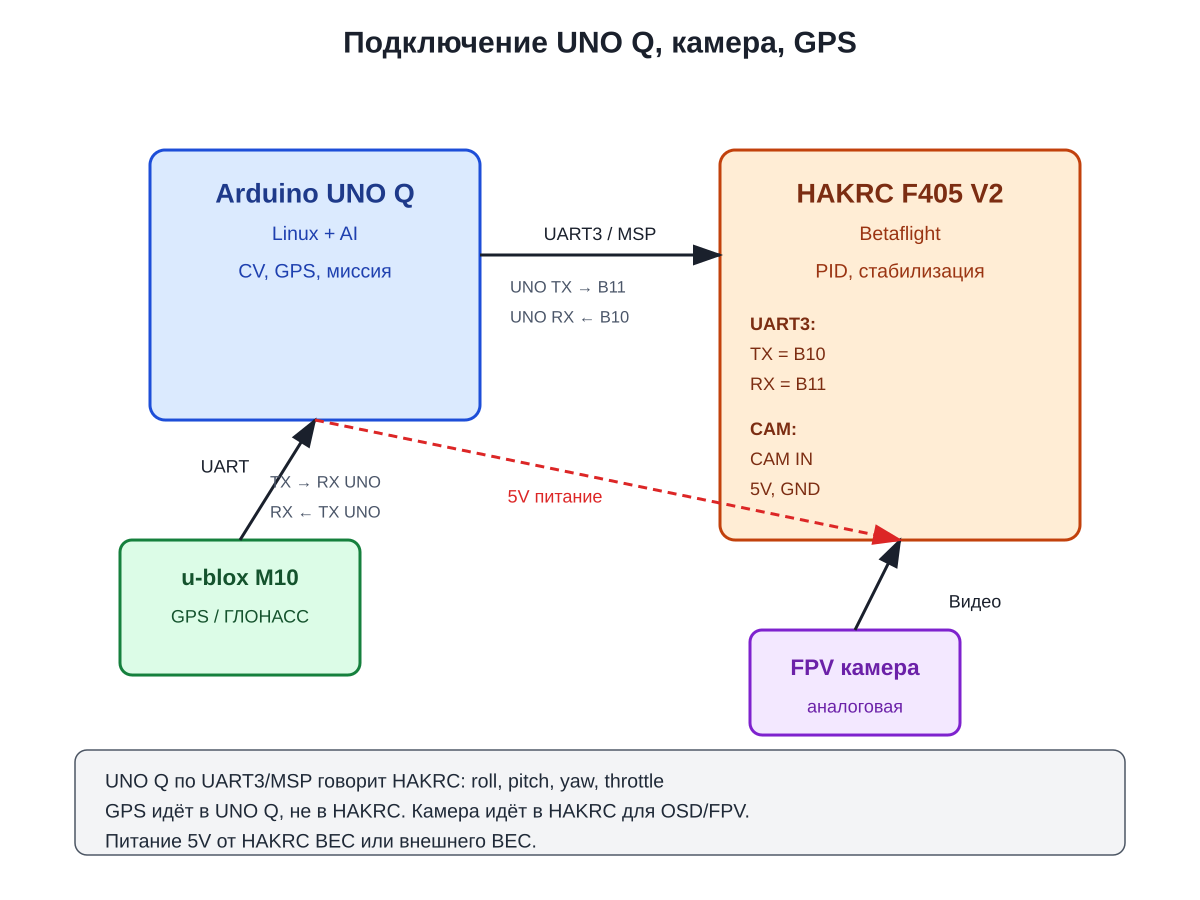
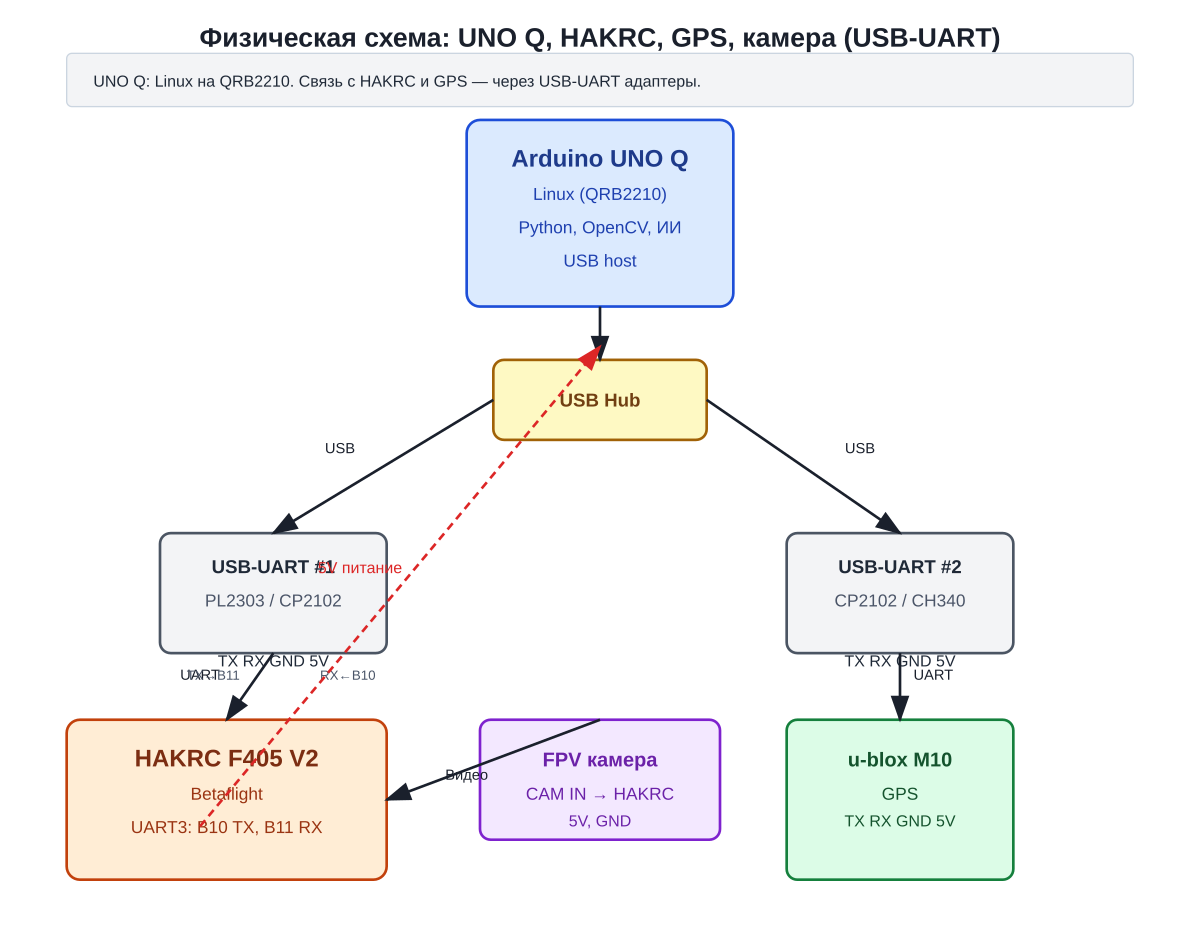
Обновить схему подключения на USB-UART для Linux на UNO Q.
- Добавить физическую схему с USB-UART адаптерами.
- UNO Q (Linux, QRB2210) связывается с HAKRC и GPS через USB-UART.
- Добавить таблицы подключения пинов.
- Обновить PLAN-HAKRC-F405V2.md.

Generated with [Devin](https://devin.ai)

diff --git a/PLAN-HAKRC-F405V2.md b/PLAN-HAKRC-F405V2.md
@@ -88,9 +88,39 @@
 | **VTX** | VTX OUT / 5V-9V | — |
 | **GPS** | — | подключается к UNO Q |
 
-### Визуальная схема
+### Визуальная схема (USB-UART)
 
-![Подключение UNO Q, камера, GPS](wiring-unoq-hakrc.png)
+UNO Q работает под **Linux на QRB2210**. Прямые пины D0/D1 не используем. Связь с HAKRC и GPS — через USB-UART адаптеры.
+
+![Физическая схема UNO Q, HAKRC, GPS, камера](wiring-unoq-hakrc.png)
+
+### USB-UART подключение
+
+#### USB-UART #1 → HAKRC F405 V2
+
+| USB-UART | HAKRC F405 V2 | Примечание |
+|----------|---------------|------------|
+| TX | B11 (RX3) | MSP команды |
+| RX | B10 (TX3) | ответы |
+| GND | GND | земля |
+| 5V | 5V | питание |
+
+#### USB-UART #2 → u-blox M10 GPS
+
+| USB-UART | GPS | Примечание |
+|----------|-----|------------|
+| TX | RX | конфигурация |
+| RX | TX | NMEA данные |
+| GND | GND | земля |
+| 5V | VCC | питание |
+
+#### FPV камера → HAKRC
+
+| Камера | HAKRC | Примечание |
+|--------|-------|------------|
+| Video | CAM IN | аналоговое видео |
+| 5V | 5V | питание |
+| GND | GND | земля |
 
 ### Питание
 
